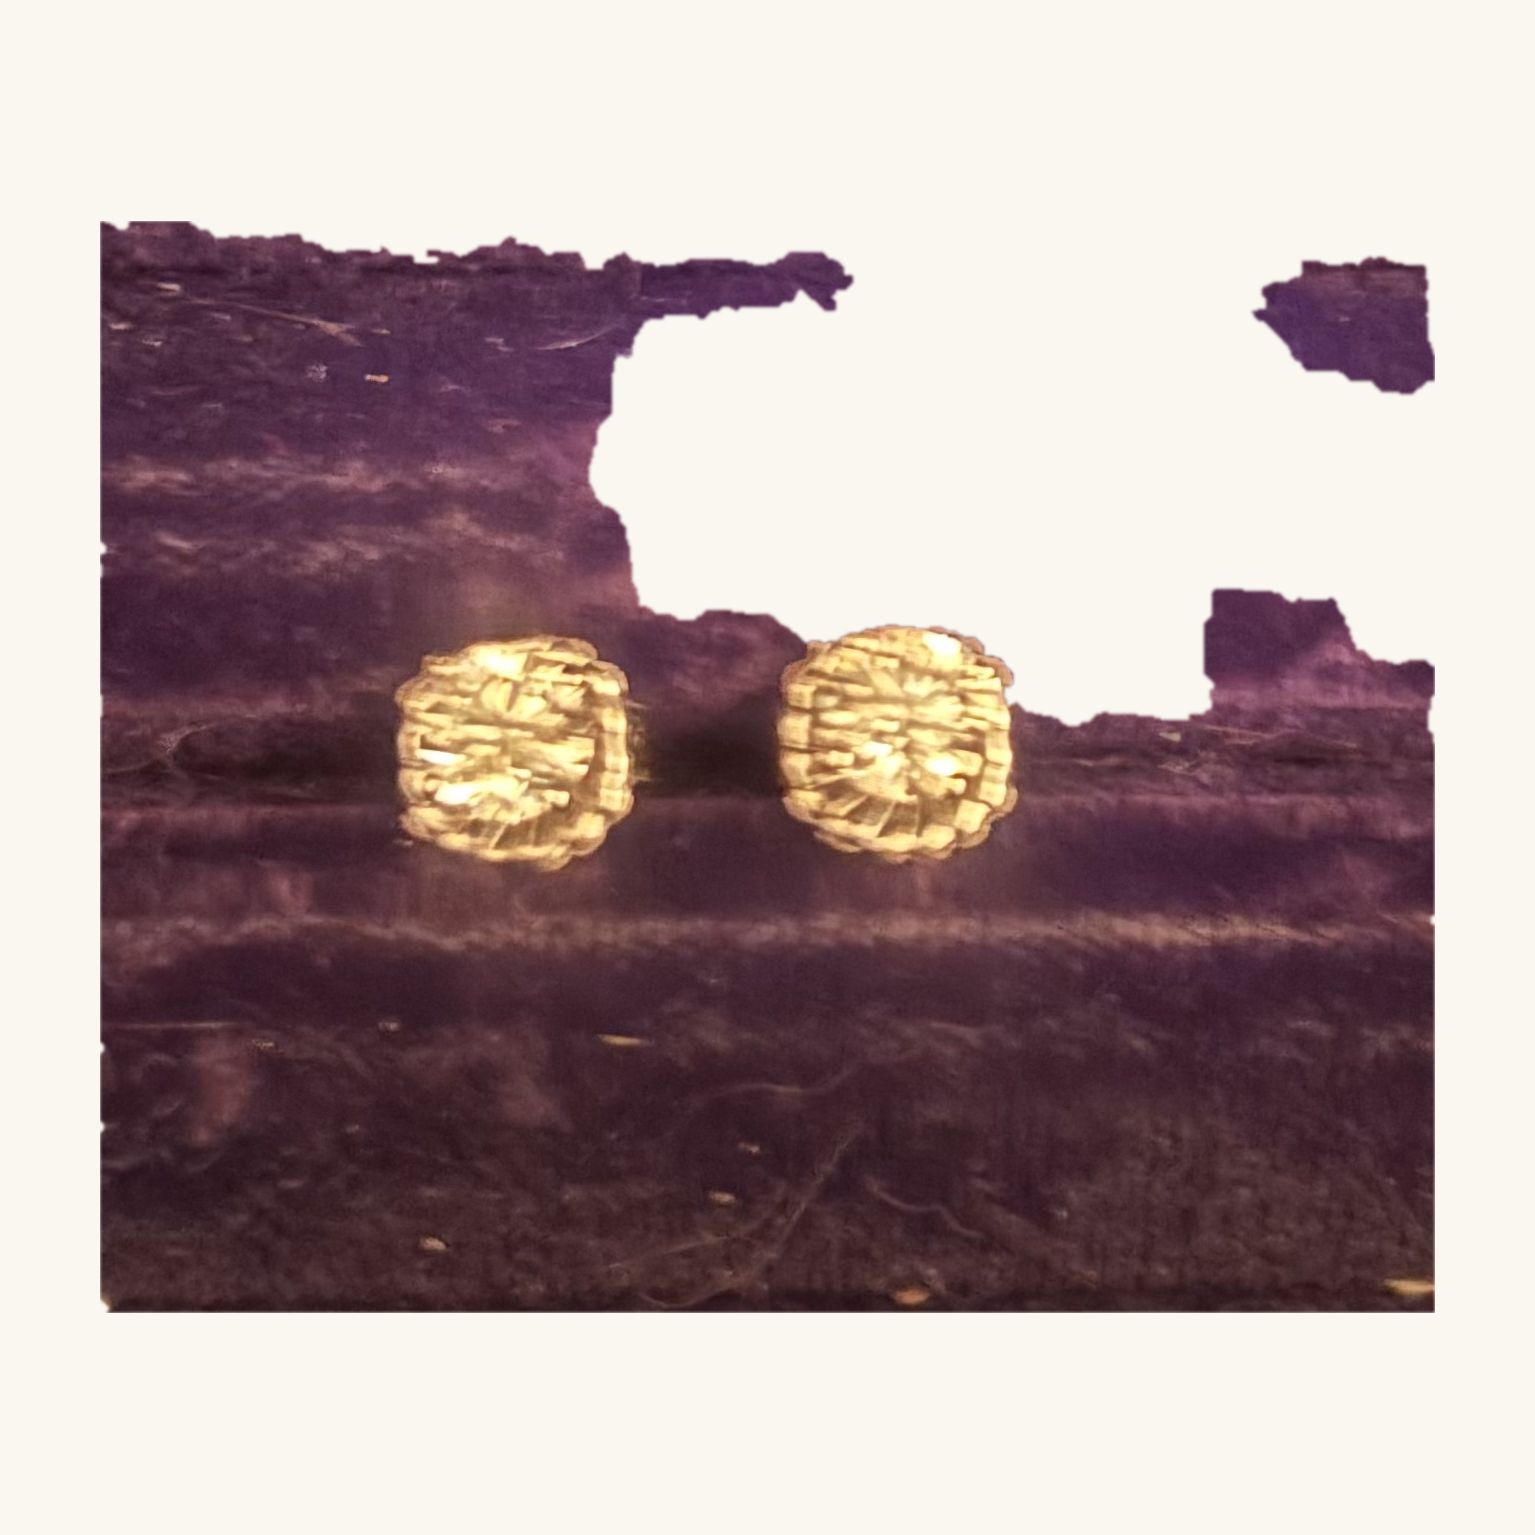
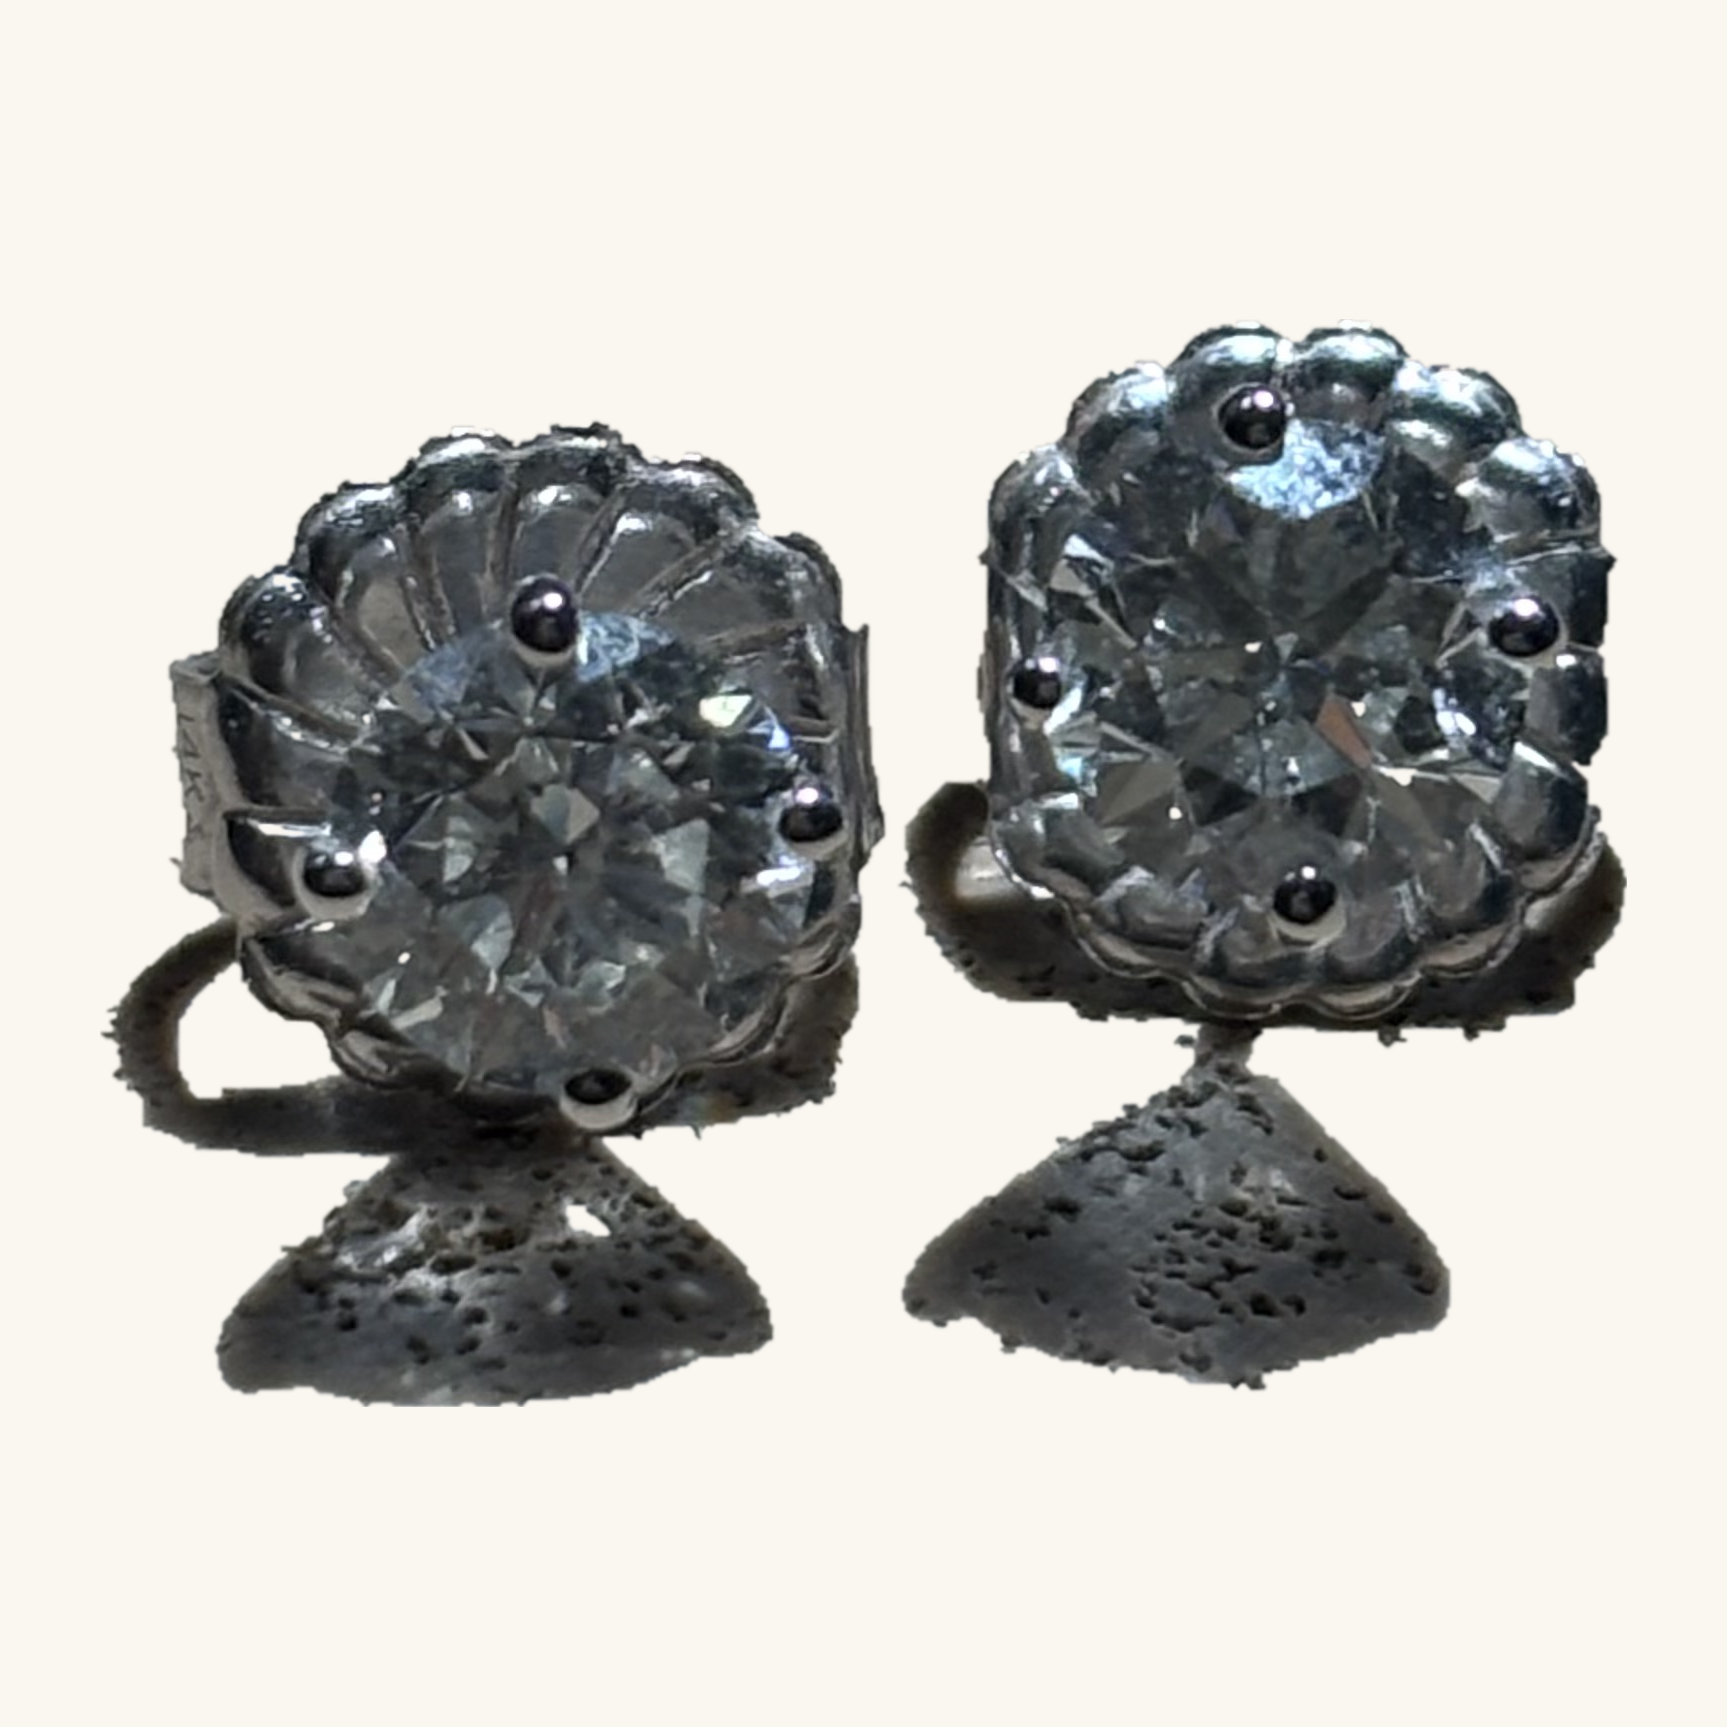
NA collection: photo fixes batch 3 — travertine reshoots
Mic reshot 8 items on her travertine countertop (same backdrop that's
been working well for shoes). Universal cleaner handles them all
cleanly because the travertine = consistent bright-bg detection +
strong contrast against products.

1. UGG Classic Ultra Mini: clean travertine shot (no sink bowl).

2. Cozy Earth bamboo socks: single primary photo showing all 3
   colorways side-by-side (blue/white, dark grey, sage green). Removed
   the separate na-cozy-earth-bamboo-socks-grey.png additionalPhoto.

3. Talbots scarves: green primary + yellow additionalPhoto, both
   flat-lay on travertine.

4. Pearl stud earrings: clean travertine shot.

5. Diamond stud earrings: clean travertine shot.

6. Aquamarine stud earrings: clean travertine shot.

7. Sapphire stud earrings: clean travertine shot.

8. Brooks Brothers white blouse V2 — Mic's favorite, flat-lay on
   travertine. Replaces the chandelier-background shot as primary
   photo. (Mic notes the blouse is not actually silk, dropped that
   word from the source filename.)

diff --git a/src/content/items/na-cozy-earth-bamboo-socks.md b/src/content/items/na-cozy-earth-bamboo-socks.md
@@ -8,8 +8,6 @@ country: "USA"
 curator: "Mic"
 photo: /images/items/na-cozy-earth-bamboo-socks.png
 pendingPhoto: false
-additionalPhotos:
-  - /images/items/na-cozy-earth-bamboo-socks-grey.png
 ---
 
 Same bamboo viscose construction as the loungewear, in sock form. Breathable, soft, stays-up. Multiple colorways — the sock that completes the Cozy Earth uniform. — Eris